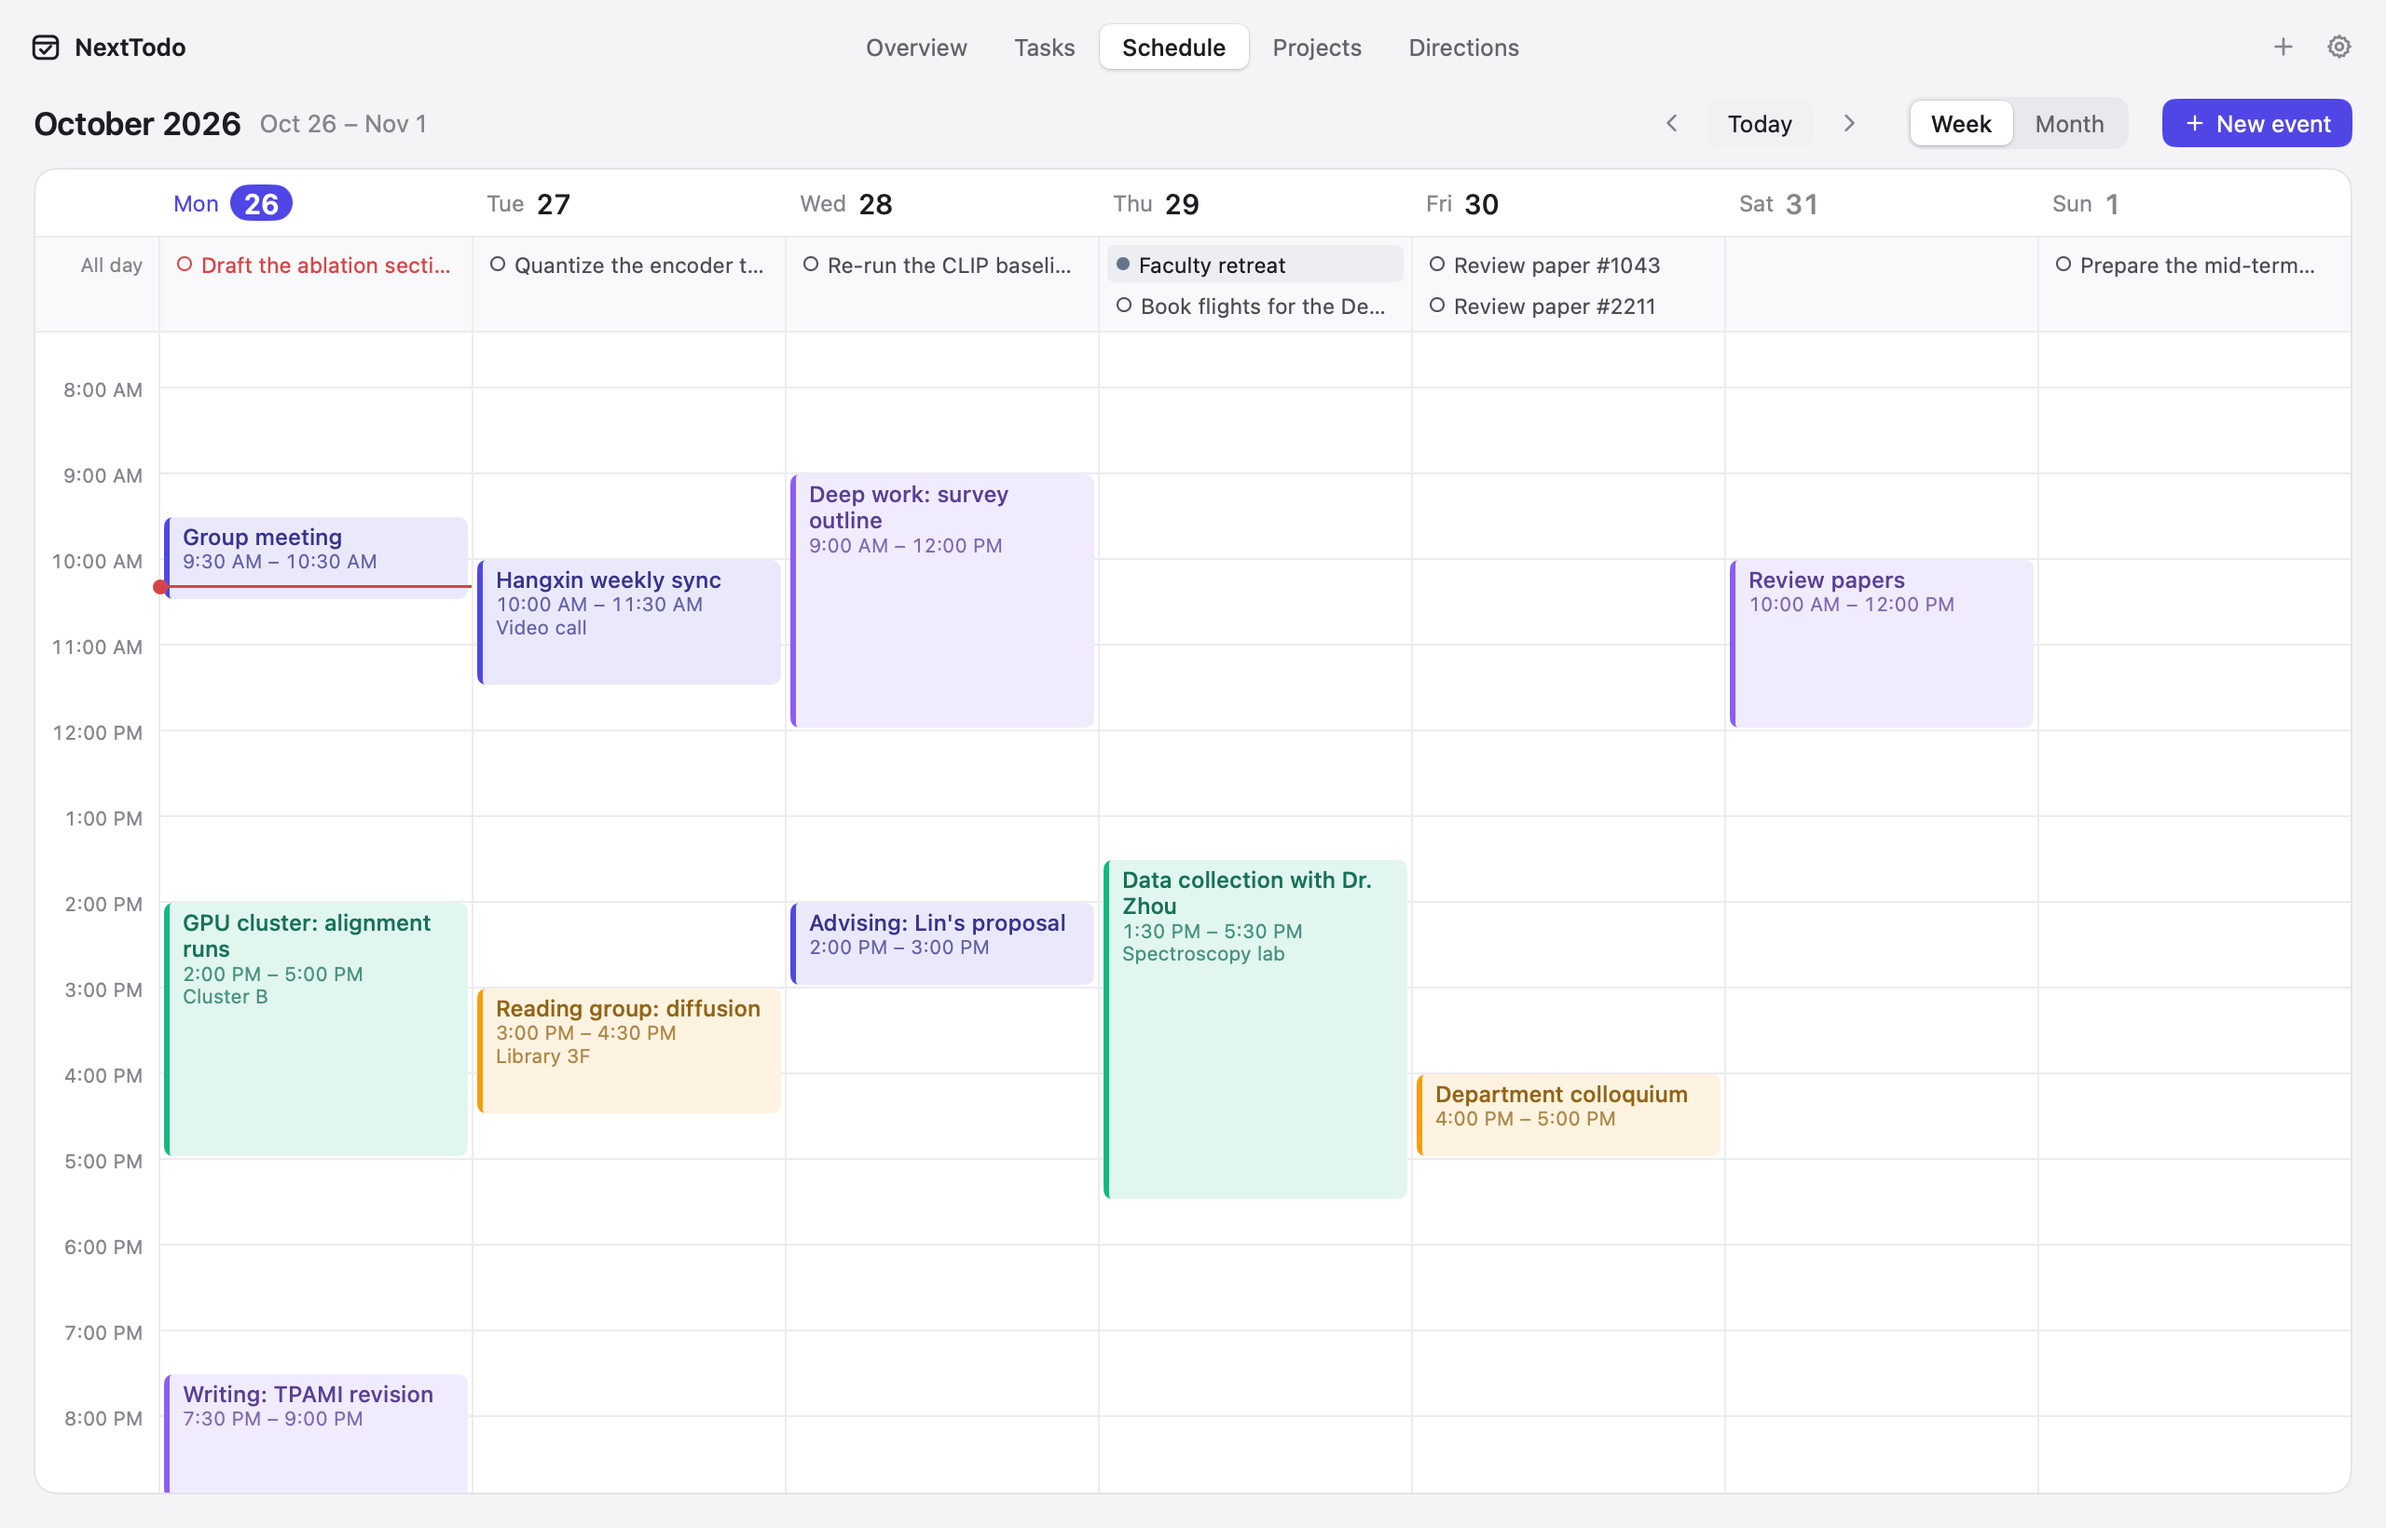
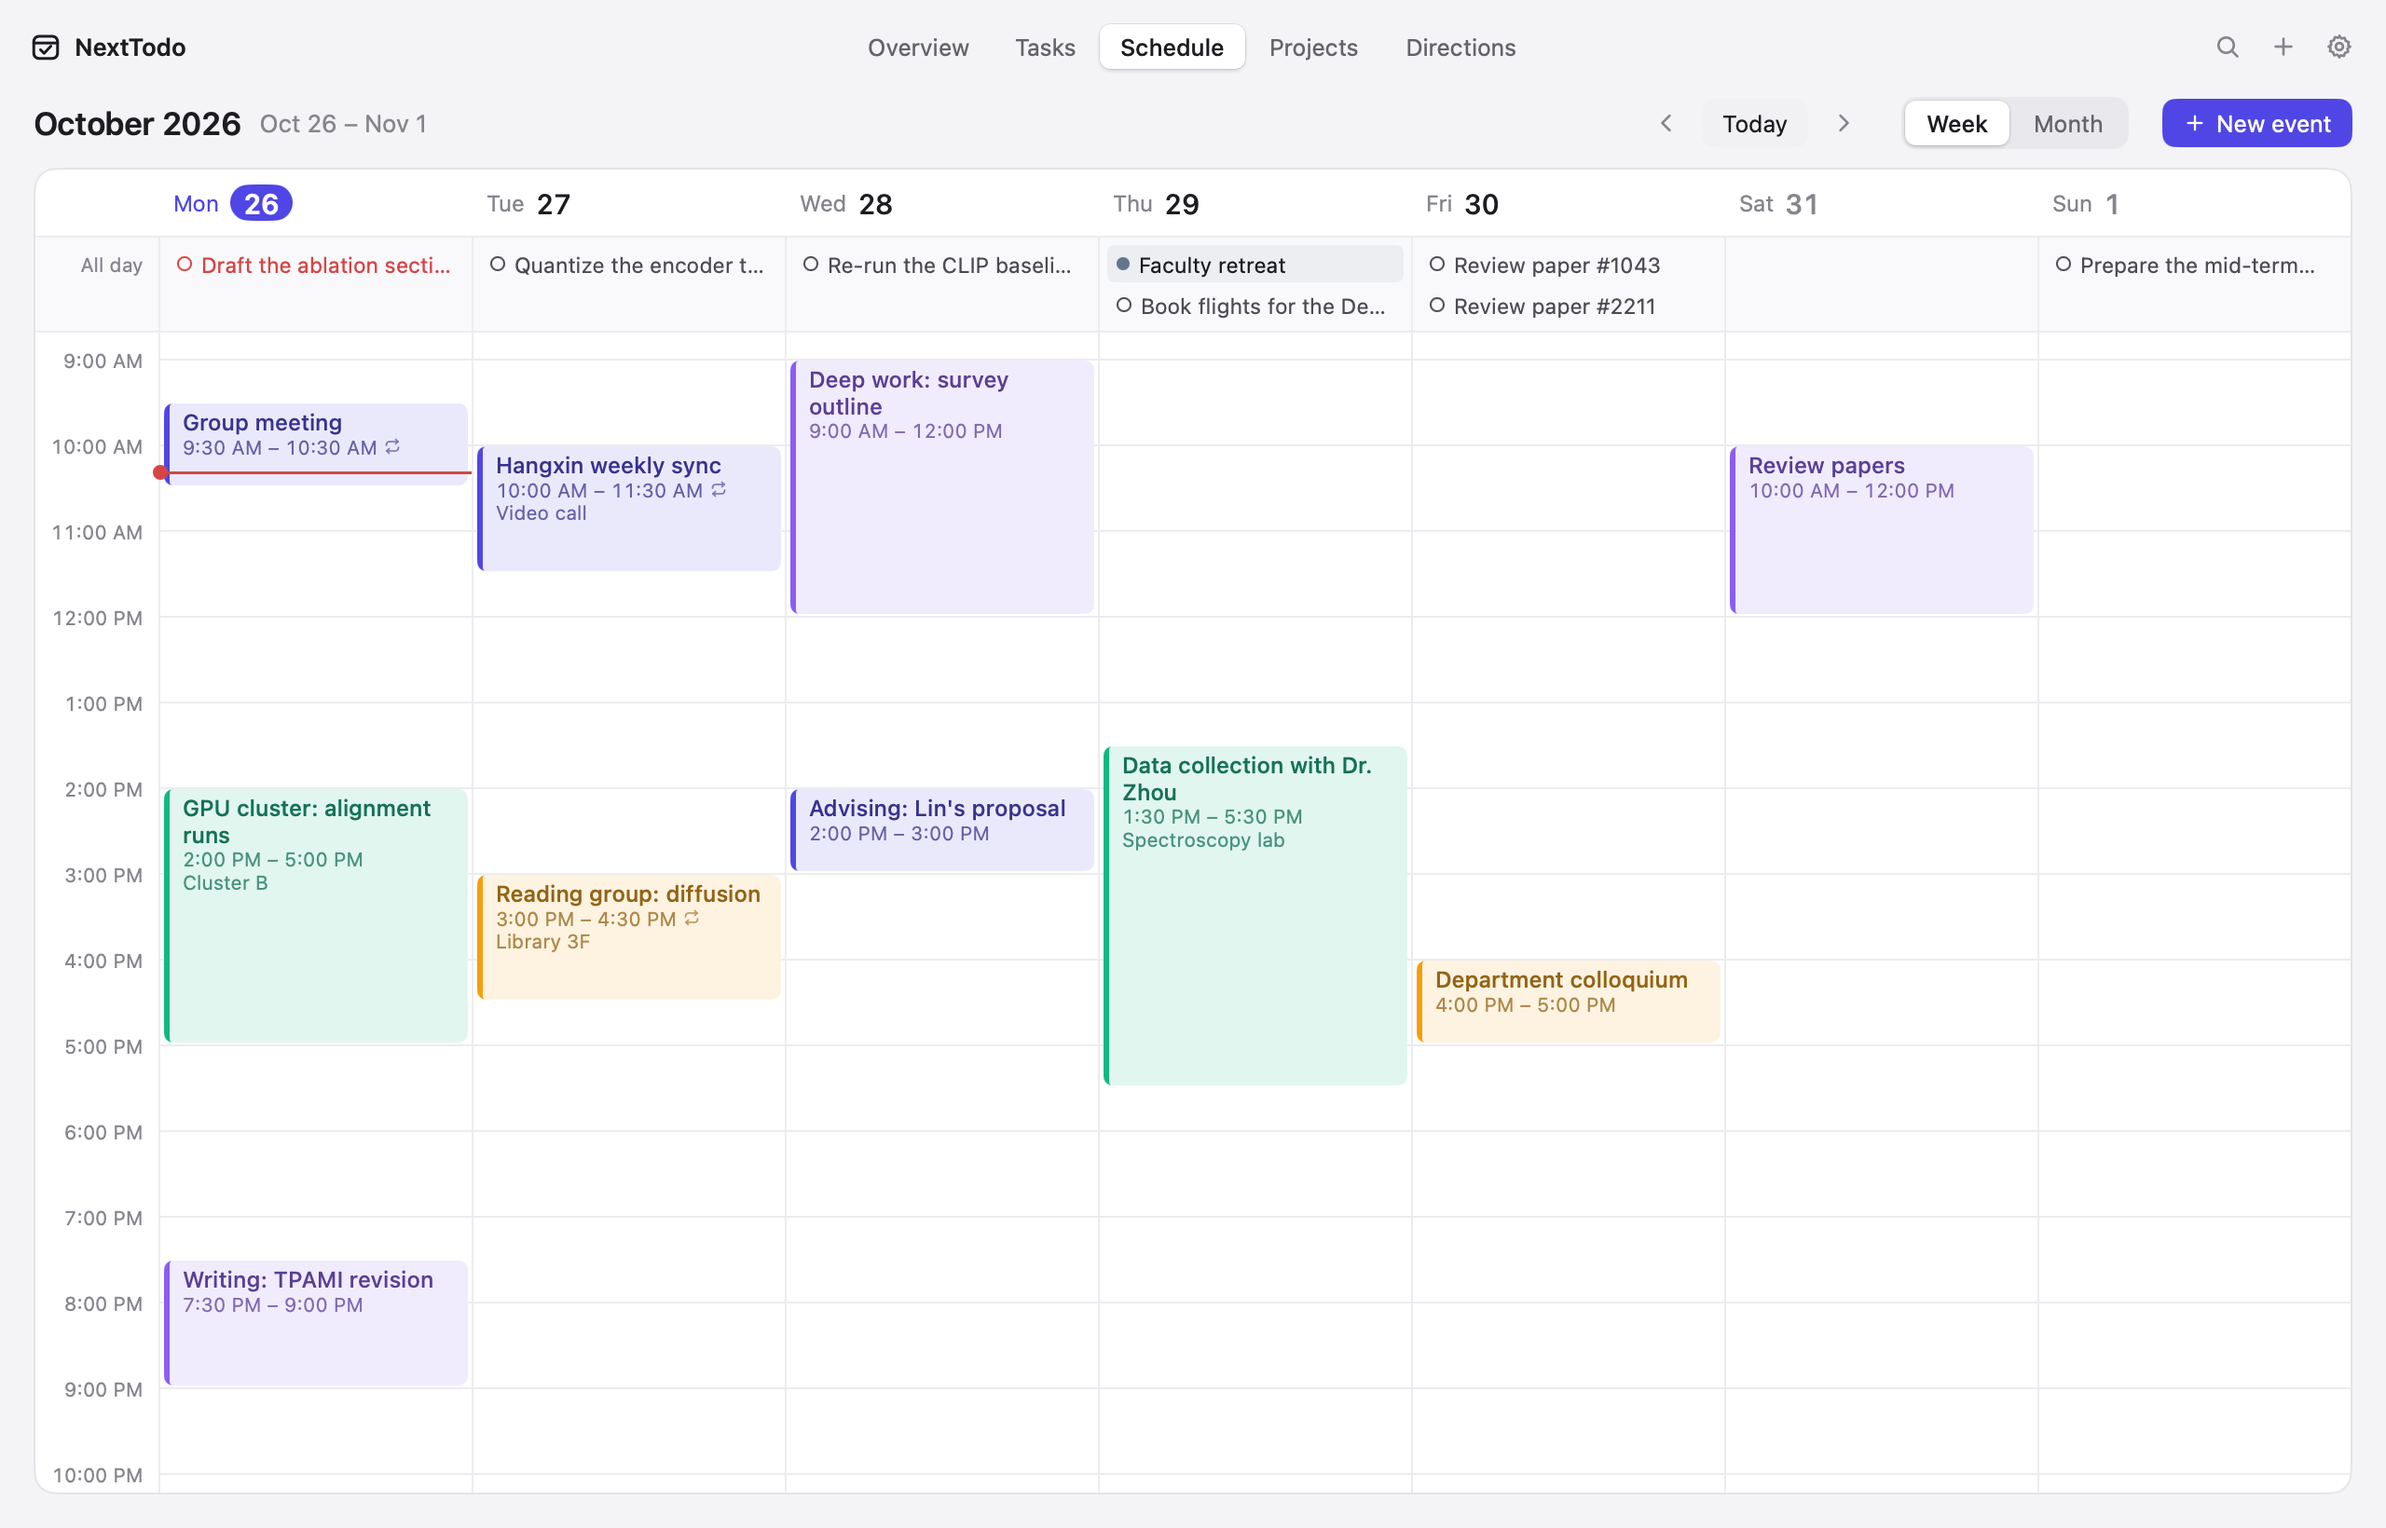
NextTodo 0.3.0
Version 0.3.0, a release built for Apple silicon and Intel in one app,
and the README telling of categories, archiving, repeating events,
search and Undo, with new pictures.

diff --git a/settings.go b/settings.go
@@ -238,7 +238,7 @@ func appVersion() string {
 	if v := mygo.App.Version(); v != "" {
 		return v
 	}
-	return "0.2.0"
+	return "0.3.0"
 }
 
 func (a *app) setLanguage(tag string) {

diff --git a/README.md b/README.md
@@ -7,7 +7,7 @@
 <h3 align="center">Your research, planned. On your Mac.</h3>
 
 <p align="center">
-  <b>Schedules, tasks and projects in one quiet app,<br>sorted by how they're funded and the questions they serve.</b>
+  <b>Schedules, tasks and projects in one quiet app,<br>sorted the way you think about your work.</b>
 </p>
 
 <p align="center">
@@ -33,10 +33,10 @@
 
 A research life lives in too many places: grants in a spreadsheet, meetings in a calendar, to-dos in another app, and the notes on how an experiment went nowhere at all. NextTodo keeps them together, on your Mac:
 
-- **Projects, sorted your way.** Group them by funding (government grants, industry contracts, your own inquiry, academic service), by research direction or by status, and keep each one's tasks, events, dated journal and particulars (grant number, lead, funder, dates) in one place.
-- **A calendar that moves with you.** Week and month views, drag to reschedule, drag an edge to change how long, and a notification before each event starts.
-- **Today, from the menu bar.** What is left of the day, and a field to add a task or an event, one click away.
-- **Yours, offline.** No account, no cloud. One JSON file in your Library, saved as you type, with backups you can export.
+- **Projects, sorted your way.** Make your own categories (by funding, by lab, by anything) with a color and an icon, or group by research direction or status. Each project keeps its tasks, events, dated journal and particulars (grant number, lead, funder, dates) in one place, and goes to the archive when it ends.
+- **A calendar that moves with you.** Week and month views, events that repeat, drag to reschedule or to sketch a new one, and a notification before each event starts.
+- **Today, from the menu bar.** What is left of the day, and a field to add a task or an event, one click or ⌃⌥Space away.
+- **Yours, offline.** No account, no cloud. One JSON file in your Library, saved as you type, copied every day, with Undo for every deletion.
 
 It's for you if you juggle more than one project and more than one kind of commitment. If one list of to-dos is enough, Reminders will do.
 
@@ -51,14 +51,14 @@ English and 简体中文. Light and dark.
         <source media="(prefers-color-scheme: dark)" srcset="docs/img/schedule-dark.png">
         <img src="docs/img/schedule-light.png" alt="The week, with events by kind">
       </picture>
-      <p><b>Schedule.</b> Drag an event to move it, in whole days and quarter hours; drag its bottom edge to resize it; double-click to add one. In the month, drag events and due tasks between days.</p>
+      <p><b>Schedule.</b> Drag an event to move it, in whole days and quarter hours; drag its bottom edge to resize it; drag down empty hours to add one. Events repeat daily, on weekdays, weekly or monthly. In the month, drag events and due tasks between days.</p>
     </td>
     <td width="50%">
       <picture>
         <source media="(prefers-color-scheme: dark)" srcset="docs/img/tasks-dark.png">
         <img src="docs/img/tasks-light.png" alt="My Day, with a task's details beside it">
       </picture>
-      <p><b>Tasks.</b> My Day gathers what you planned for today and what is due or late. Important, Planned, All and Completed, with priorities, due dates, notes and projects.</p>
+      <p><b>Tasks.</b> My Day gathers what you planned for today and what is due or late. Important, Planned (by day, as in Reminders), All and Completed, with priorities, due dates, notes and projects. ↑↓ to choose, ⌘K to finish.</p>
     </td>
   </tr>
   <tr>
@@ -67,7 +67,7 @@ English and 简体中文. Light and dark.
         <source media="(prefers-color-scheme: dark)" srcset="docs/img/projects-dark.png">
         <img src="docs/img/projects-light.png" alt="Projects grouped by category">
       </picture>
-      <p><b>Projects.</b> Grouped by category, direction or status, each with its progress and when it ends. Open one for its summary, tasks, research journal and upcoming events.</p>
+      <p><b>Projects.</b> Grouped by your categories, direction or status, each with its progress and when it ends. Open one for its summary, tasks, research journal and upcoming events; archive it when it's done.</p>
     </td>
     <td width="50%" align="center">
       <picture>
@@ -79,7 +79,7 @@ English and 简体中文. Light and dark.
   </tr>
 </table>
 
-And: research directions with their projects, reminders before events (a default and one per event), a pop-up of new things in the title bar, ⌘1–⌘5 for the pages, JSON backups, and sample data on first launch to show the way.
+And: search everything with ⌘F, research directions with their projects, reminders before events (a default and one per event), a Dock badge for what is due, open at login, ⌘1–⌘5 for the pages, daily backups you can restore, and sample data on first launch to show the way.
 
 ## Quick start
 
@@ -101,6 +101,8 @@ NextTodo is written in Go with [MyGo](https://mygo.egoist.dev/)'s native UI: no 
 | `style.go`, `icons.go`, `art.go` | the palette, the components, the icons |
 | `app.go` | the app's state, saving, the title bar |
 | `overview.go`, `tasks.go`, `schedule.go`, `projects.go`, `directions.go`, `settings.go` | the pages |
+| `repeat.go` | events that repeat, and their occurrences |
+| `categories.go`, `search.go`, `undo.go`, `backups.go` | categories, search, Undo, daily copies |
 | `panel.go`, `alerts.go` | the menu bar panel, and when events alert |
 | `locales/` | every string, in English and Chinese |
 
@@ -113,6 +115,7 @@ git clone https://github.com/yuxiaoLeeMarks/nexttodo.git && cd nexttodo
 go tool mygo dev      # run, reloading as you edit
 go test ./...         # the tests drive every view without a window
 go tool mygo build    # build/darwin-arm64/NextTodo.app and its .dmg
+go tool mygo build -platform darwin/universal   # for Apple silicon and Intel
 ```
 
 `NT_SNAPSHOTS=/tmp/shots go test -run TestSnapshots .` renders every page, light and dark, in both languages. Strings live in `locales/en.json` and `locales/zh-Hans.json`.

diff --git a/README.zh-CN.md b/README.zh-CN.md
@@ -7,7 +7,7 @@
 <h3 align="center">科研，有条不紊。就在你的 Mac 上。</h3>
 
 <p align="center">
-  <b>日程、待办与科研项目，放进一个安静的应用，<br>按经费来源与研究方向归类。</b>
+  <b>日程、待办与科研项目，放进一个安静的应用，<br>按你自己的方式归类。</b>
 </p>
 
 <p align="center">
@@ -33,10 +33,10 @@
 
 科研生活散落在太多地方：课题在表格里，会议在日历里，待办在另一个应用里，实验的心得则无处安放。NextTodo 把它们放回同一个地方，留在你的 Mac 上：
 
-- **项目，按你的方式归类。** 按经费来源（纵向课题、横向课题、自主研究、学术服务）、研究方向或状态分组；每个项目的任务、日程、研究日志与项目信息（编号、负责人、资助方、起止日期）都集中在一处。
-- **跟得上你的日历。** 周视图与月视图，拖拽即可改期，拖动下边缘调整时长，日程开始前推送系统通知。
-- **今日安排，就在菜单栏。** 今天还剩什么，以及一个添加待办或日程的输入框，一键即达。
-- **数据属于你，离线可用。** 无需账号，不上云。数据是资源库中的一个 JSON 文件，随写随存，可导出备份。
+- **项目，按你的方式归类。** 自定义类别（按经费来源、按课题组，随你），配上颜色与图标；也可按研究方向或状态分组。每个项目的任务、日程、研究日志与项目信息（编号、负责人、资助方、起止日期）都集中在一处，结束后一键归档。
+- **跟得上你的日历。** 周视图与月视图，支持重复日程，拖拽即可改期或划出新日程，日程开始前推送系统通知。
+- **今日安排，就在菜单栏。** 今天还剩什么，以及一个添加待办或日程的输入框，点一下或按 ⌃⌥空格 即达。
+- **数据属于你，离线可用。** 无需账号，不上云。数据是资源库中的一个 JSON 文件，随写随存，每天自动备份，删除皆可撤销。
 
 如果你同时推进不止一个项目、不止一类事务，它适合你。如果一张待办清单就够了，系统自带的「提醒事项」足矣。
 
@@ -44,11 +44,11 @@
 
 ## 功能
 
-- **日程**：拖动日程改期（按整天与 15 分钟对齐），拖动下边缘调整时长，双击空白处新建；月视图中可在日期之间拖动日程与到期待办。
-- **待办**：「我的一天」汇集今天计划的、今天到期的和已逾期的待办；另有重要、已计划、全部、已完成，支持优先级、截止日期、备注与所属项目。
-- **项目**：按类别、方向或状态分组，显示进度与结束日期；项目页包含概述、任务、研究日志与近期日程。
+- **日程**：拖动日程改期（按整天与 15 分钟对齐），拖动下边缘调整时长，在空白时段向下拖动即可新建；日程可按每天、工作日、每周、每两周或每月重复，可单独修改某一次；月视图中可在日期之间拖动日程与到期待办。
+- **待办**：「我的一天」汇集今天计划的、今天到期的和已逾期的待办；另有重要、已计划（像「提醒事项」一样按日期分组）、全部、已完成，支持优先级、截止日期、备注与所属项目；↑↓ 选择，⌘K 完成。
+- **项目**：按自定义类别、方向或状态分组，显示进度与结束日期；项目页包含概述、任务、研究日志与近期日程；项目结束后可归档，随时恢复。
 - **菜单栏**：今日的日程与待办可直接勾选完成，输入框可添加到「我的一天」或添加今天的日程。
-- 还有：研究方向与其项目、日程提醒（默认提前时间与单个日程的提醒）、标题栏的新建菜单、⌘1–⌘5 切换页面、JSON 备份，以及首次启动时的示例数据。
+- 还有：⌘F 全局搜索、研究方向与其项目、日程提醒（默认提前时间与单个日程的提醒）、程序坞角标、登录时打开、⌘1–⌘5 切换页面、可恢复的每日备份，以及首次启动时的示例数据。
 
 ## 快速开始
 
@@ -73,6 +73,7 @@ git clone https://github.com/yuxiaoLeeMarks/nexttodo.git && cd nexttodo
 go tool mygo dev      # 运行，编辑后自动重载
 go test ./...         # 测试在无窗口的情况下驱动每个界面
 go tool mygo build    # 生成 build/darwin-arm64/NextTodo.app 与 .dmg
+go tool mygo build -platform darwin/universal   # 同时支持 Apple 芯片与 Intel
 ```
 
 ## 许可证
